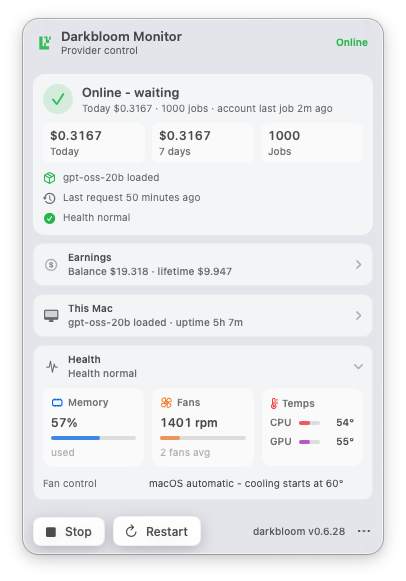
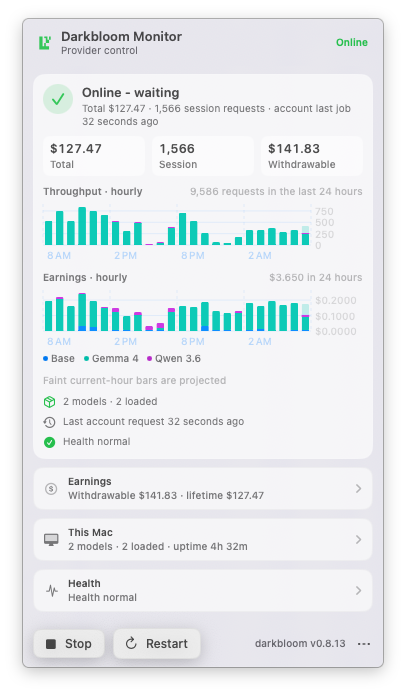
docs: update monitor screenshot

diff --git a/README.md b/README.md
@@ -13,7 +13,7 @@ tells you everything else.
 ![macOS 14+](https://img.shields.io/badge/macOS-14%2B-black)
 
 <p>
-  <img src="docs/darkbloom-monitor.png" width="330" alt="Darkbloom Monitor menu showing earnings, provider status, hardware metrics, and the jobs chart">
+  <img src="docs/darkbloom-monitor.png" width="330" alt="Darkbloom Monitor menu showing provider status, hourly throughput and earnings charts, and controls">
   <img src="docs/darkbloom-monitor-preferences.png" width="430" alt="Darkbloom Monitor preferences showing menu layout and cooling assist settings">
 </p>
 
